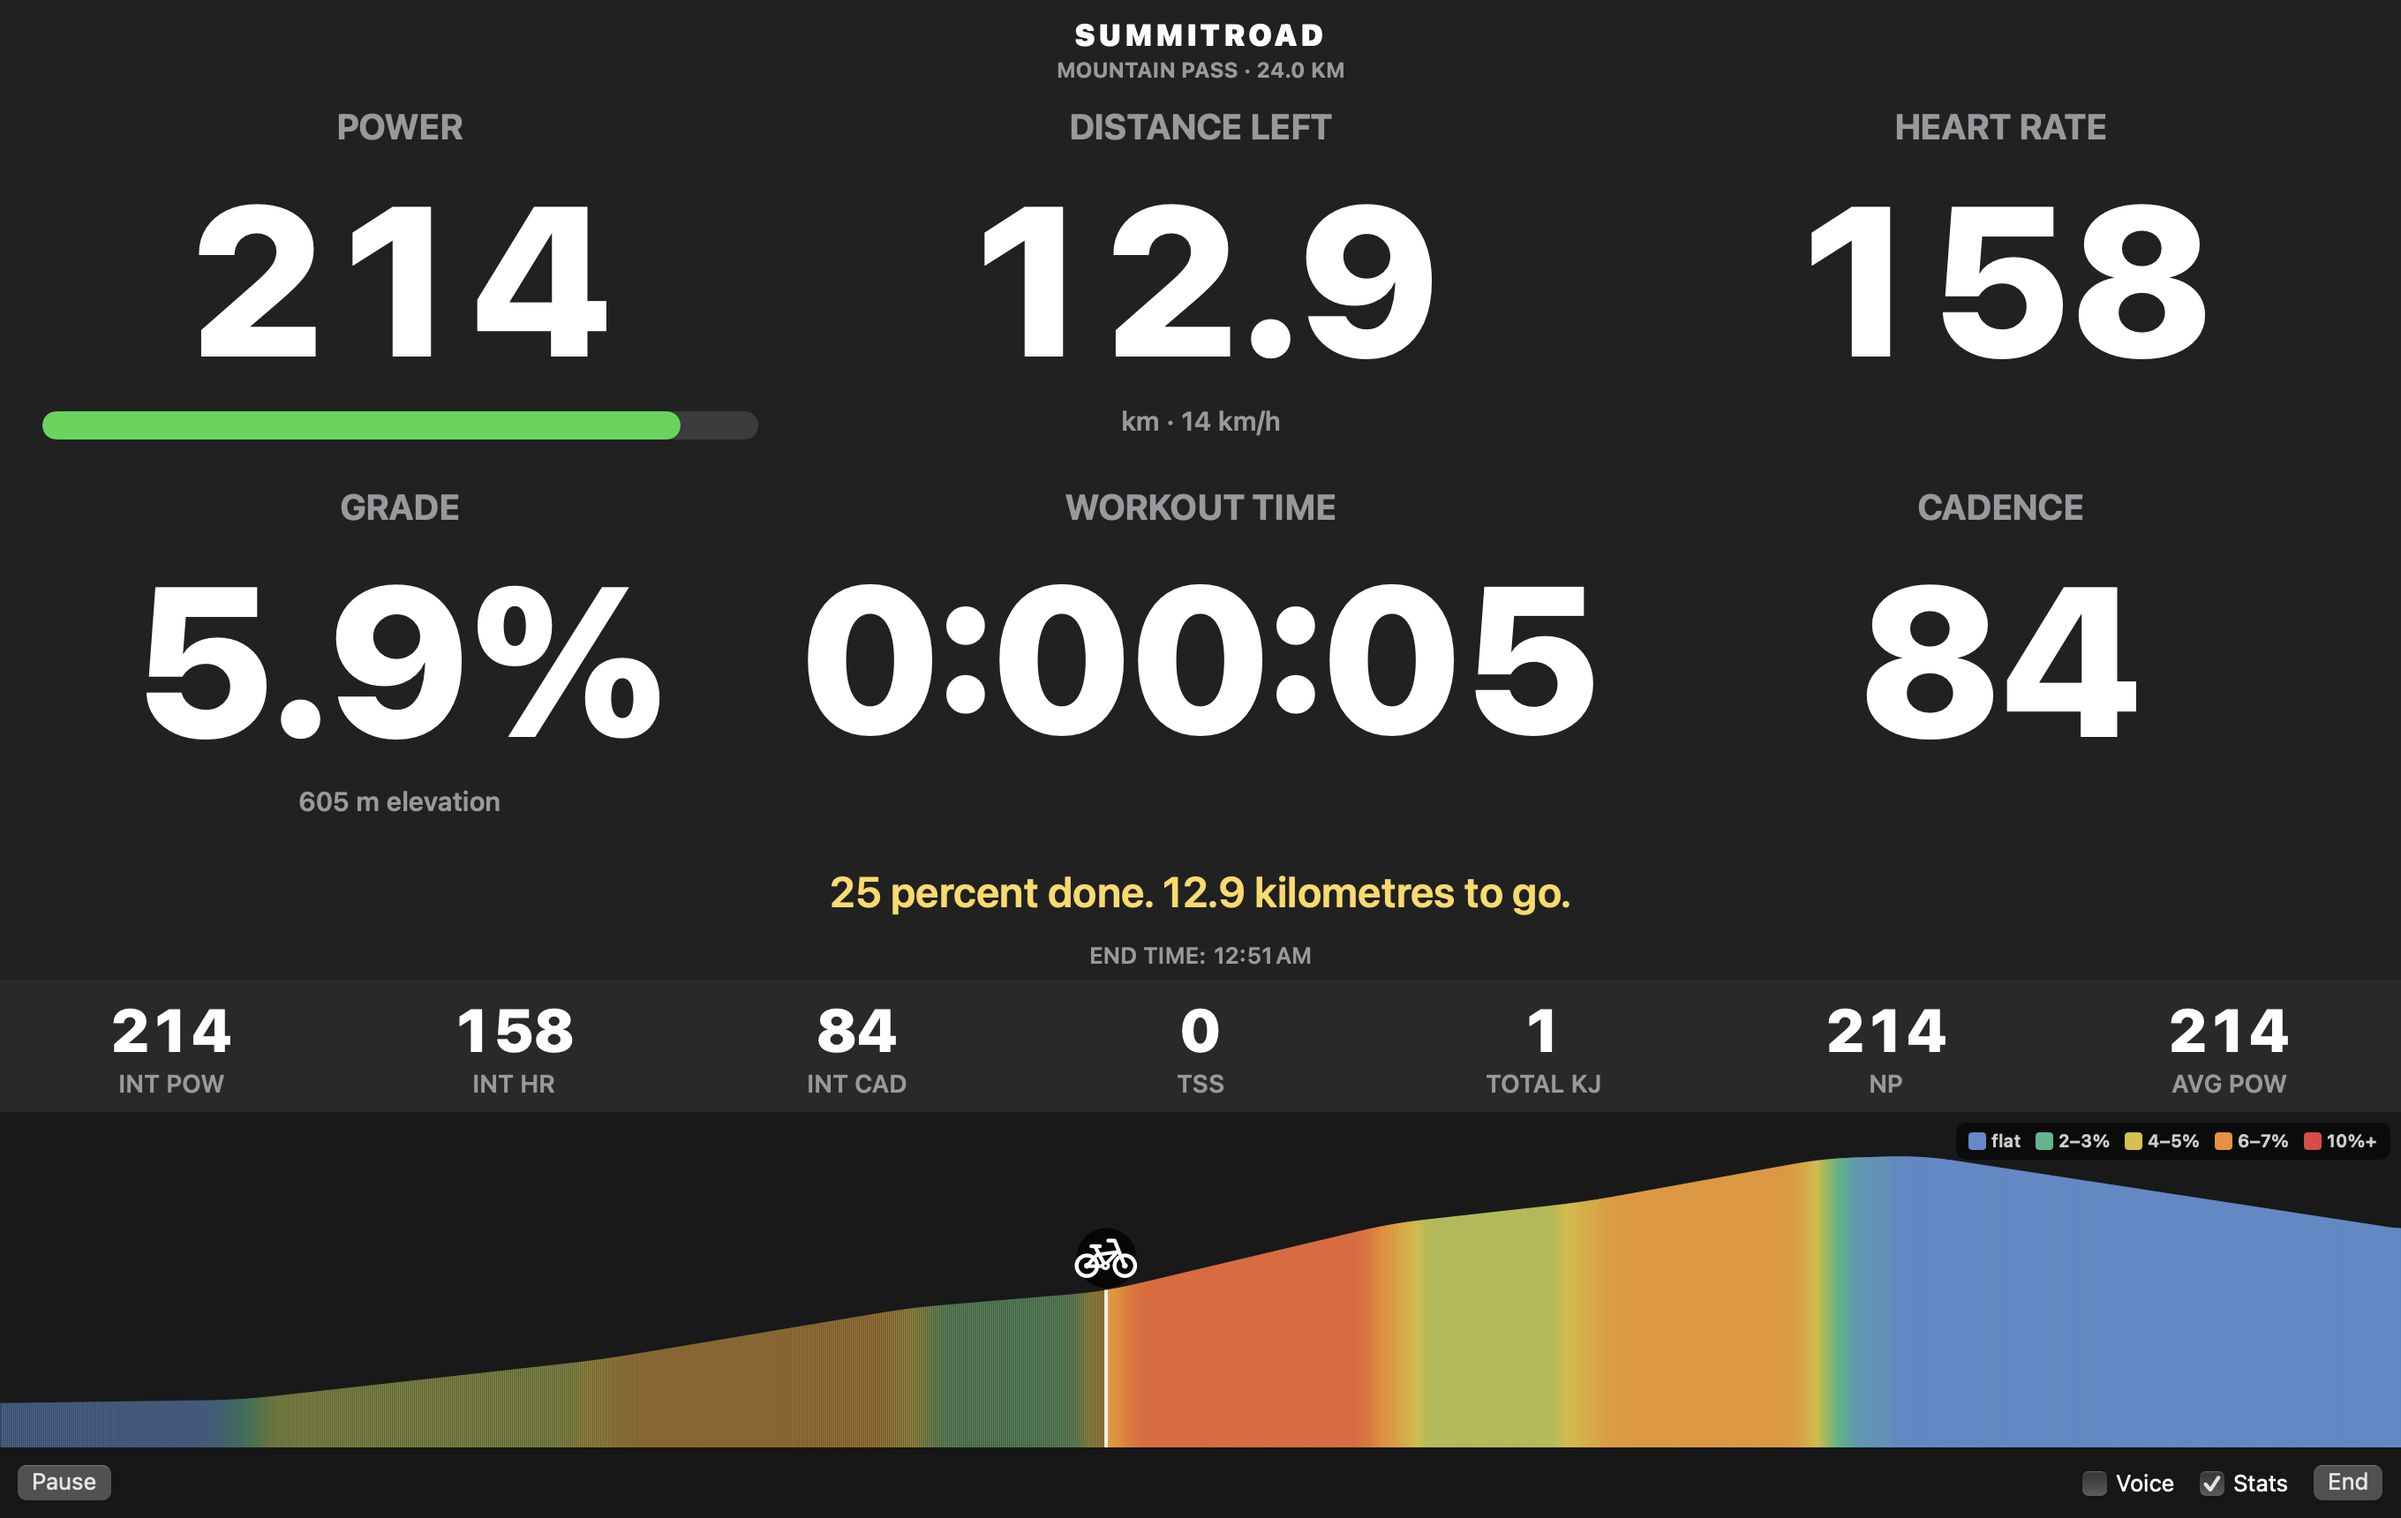
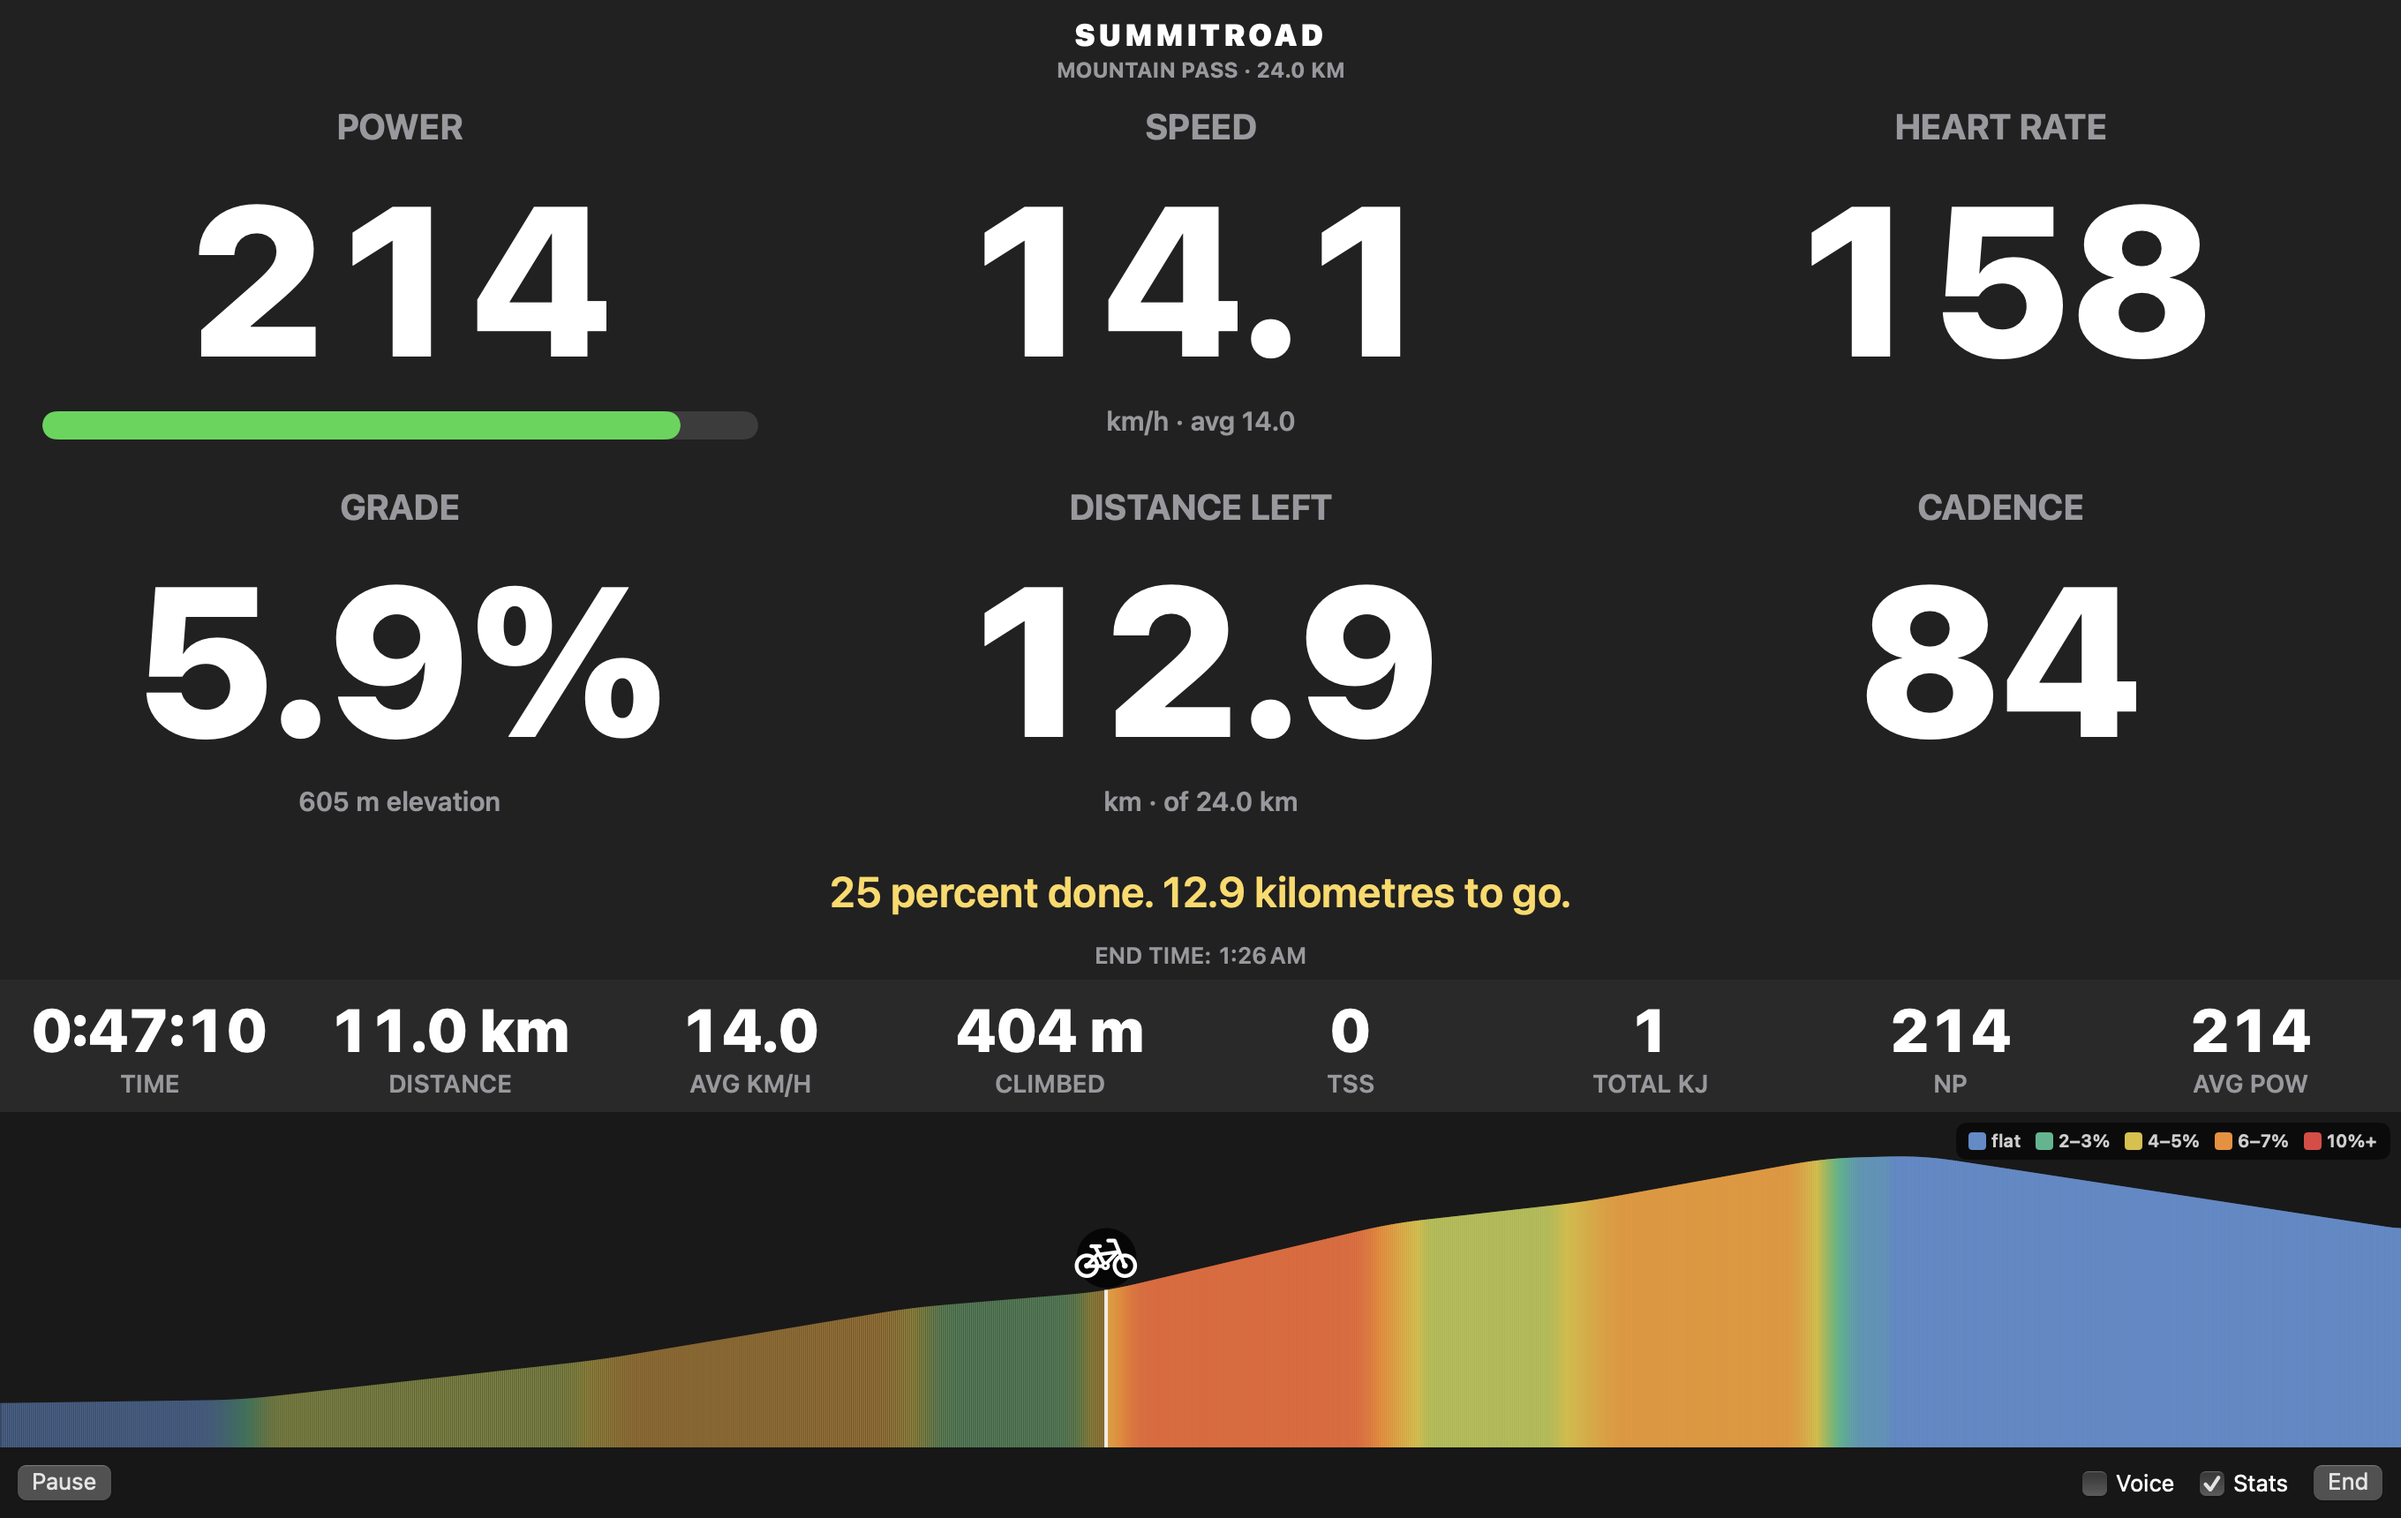
App 1.0.31: speed as a large tile on the route ride screen, with time, distance, average speed and climbing in the stats strip; README and screenshot updated

diff --git a/Sources/SummitTrainer/RideView.swift b/Sources/SummitTrainer/RideView.swift
@@ -134,7 +134,7 @@ struct RideView: View {
                         powerBar
                     }
                     if s.route != nil {
-                        cell("DISTANCE LEFT", String(format: "%.1f", s.routeRemaining / 1000), subtitle: "km · \(Int(s.speedKmh.rounded())) km/h")
+                        cell("SPEED", String(format: "%.1f", s.speedKmh), subtitle: String(format: "km/h · avg %.1f", s.avgSpeedKmh))
                     } else {
                         cell("INTERVAL TIME", formatTime(s.intervalRemaining), subtitle: s.intervalLabel)
                     }
@@ -148,7 +148,11 @@ struct RideView: View {
                     } else {
                         cell("TARGET", targetText)
                     }
-                    cell("WORKOUT TIME", hms(s.elapsed))
+                    if let rr = s.route {
+                        cell("DISTANCE LEFT", String(format: "%.1f", s.routeRemaining / 1000), subtitle: String(format: "km · of %.1f km", rr.length / 1000))
+                    } else {
+                        cell("WORKOUT TIME", hms(s.elapsed))
+                    }
                     cell("CADENCE", s.cadence.map { "\($0)" } ?? "--")
                 }
                 .frame(maxHeight: .infinity)
@@ -170,9 +174,16 @@ struct RideView: View {
 
                 if showStats {
                     HStack(spacing: 0) {
-                        stat("\(s.intPower)", "INT POW")
-                        stat(s.intHR.map { "\($0)" } ?? "---", "INT HR")
-                        stat(s.intCadence.map { "\($0)" } ?? "--", "INT CAD")
+                        if s.route != nil {
+                            stat(hms(s.elapsed), "TIME")
+                            stat(String(format: "%.1f km", s.distanceM / 1000), "DISTANCE")
+                            stat(String(format: "%.1f", s.avgSpeedKmh), "AVG KM/H")
+                            stat("\(Int(s.routeClimbed.rounded())) m", "CLIMBED")
+                        } else {
+                            stat("\(s.intPower)", "INT POW")
+                            stat(s.intHR.map { "\($0)" } ?? "---", "INT HR")
+                            stat(s.intCadence.map { "\($0)" } ?? "--", "INT CAD")
+                        }
                         stat("\(Int(s.tss.rounded()))", "TSS")
                         stat("\(Int(s.kj.rounded()))", "TOTAL KJ")
                         stat("\(Int(s.np.rounded()))", "NP")

diff --git a/Sources/SummitTrainer/RideSession.swift b/Sources/SummitTrainer/RideSession.swift
@@ -103,6 +103,8 @@ final class RideSession: ObservableObject {
     var intervalRemaining: Int { segment.seconds - segElapsed }
     var workoutRemaining: Int { totalSeconds - elapsed }
     var routeRemaining: Double { max(0, (route?.length ?? 0) - distanceM) }
+    var avgSpeedKmh: Double { elapsed > 0 ? distanceM / Double(elapsed) * 3.6 : 0 }
+    var routeClimbed: Double { route.map { $0.route.ascent(from: $0.startM, to: $0.startM + distanceM) } ?? 0 }
     var endTime: Date {
         if route != nil {                                          // remaining distance at the average speed so far
             let avg = elapsed >= 30 ? distanceM / Double(elapsed) : 8.0

diff --git a/README.md b/README.md
@@ -100,7 +100,7 @@ Ride any GPX route in **simulation mode**: instead of holding a power target (ER
 1. **Workouts > Routes > Import GPX…** and give the route a name. The GPX needs elevation data (recorded rides exported from Strava or Garmin have it). The file is copied into the app's data folder on your Mac (`~/Library/Application Support/SummitTrainer/routes`) and is never uploaded or synced.
 2. Open the route, then use the **Start/Finish sliders** to choose a section, or **Fit to 60 / 75 / 90 min** to pick a finish point for the time you have. The estimate comes from your power at the chosen effort (Easy 55%, Endurance 65%, Tempo 80%, Hard 95% of FTP), the gradient and your weight.
 3. Set **Rider + bike weight** (Settings > Athlete, default 80 kg). It is used to work out your speed and progress along the route from your power.
-4. **Start Ride.** The ride screen shows the colour-coded elevation profile (blue flat, then green, yellow, orange and red as it gets steeper) with a bike at your position, the part you've ridden dimmed, and distance left, grade, elevation and speed alongside your power, heart rate and cadence. The ride ends at the finish.
+4. **Start Ride.** The ride screen shows the colour-coded elevation profile (blue flat, then green, yellow, orange and red as it gets steeper) with a bike at your position and the part you've ridden dimmed. The six big numbers are power, **speed** (with your average), heart rate, grade (with elevation), distance left and cadence; a strip below shows elapsed time, distance ridden, average speed and climbing so far. The ride ends at the finish.
 
 Gradients are smoothed over about 160 m and limited to -10% to +15%, so the resistance changes gradually. Route rides have no training score.
 
